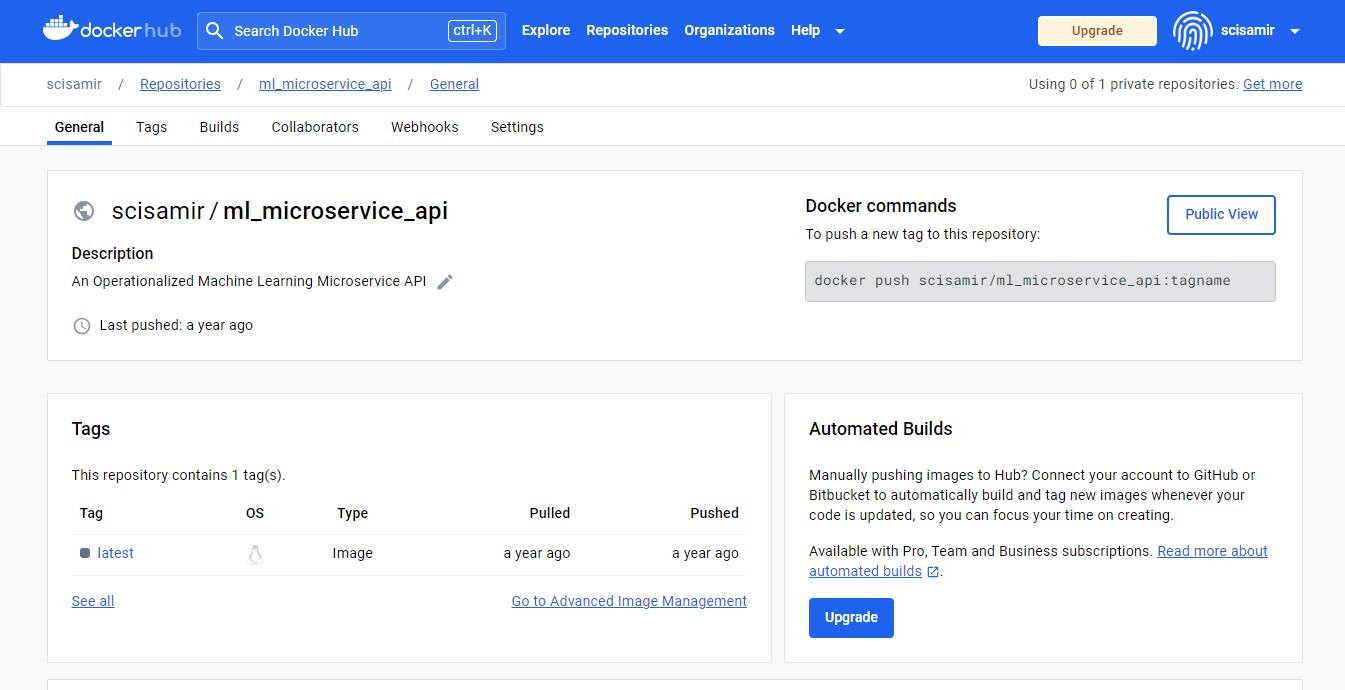
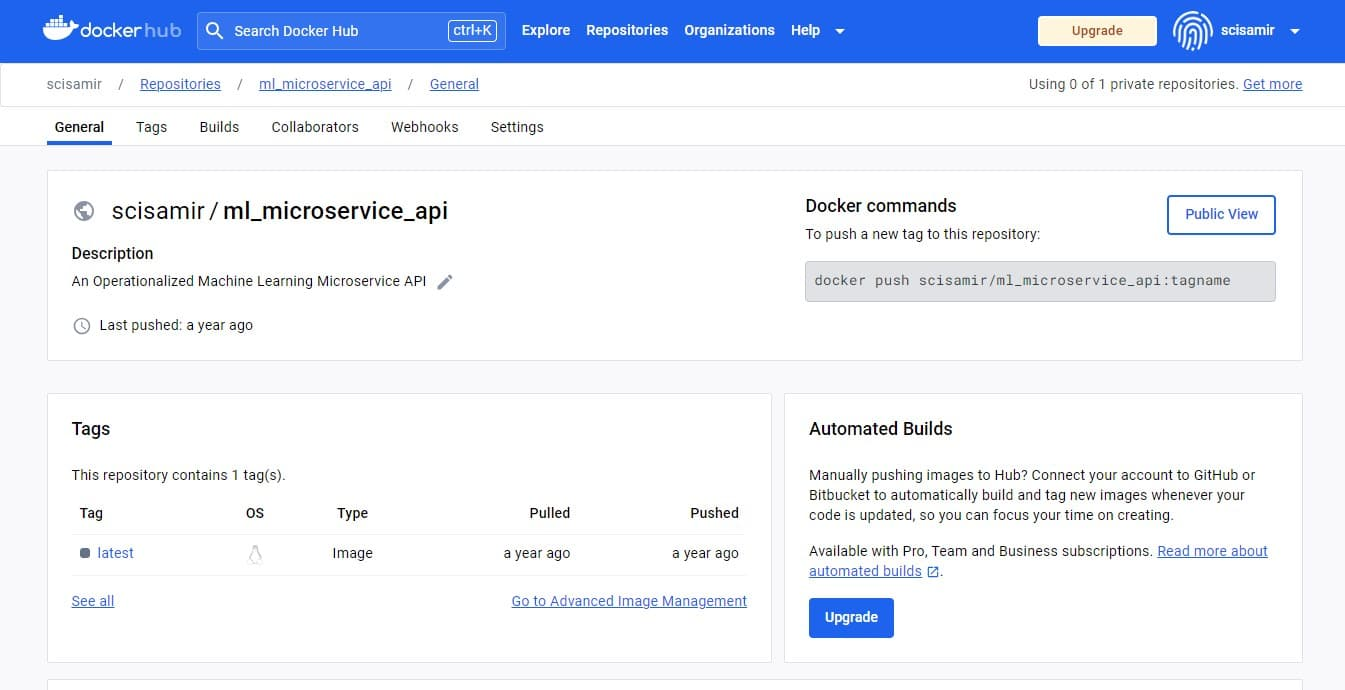
minify images

diff --git a/src/static/projects.ts b/src/static/projects.ts
@@ -48,7 +48,7 @@ const MyProjects = [
         github_link: "https://github.com/scisamir/AirBnB_clone"
     },
     {
-        image_src: "project3.png",
+        image_src: "project3.jpg",
         p_head: "Metabnb",
         description: "Metabnb provides you access to luxury and affordable houses in the metaverse, get a chance to turn your imagination to reality at your comfort zone",
         tools: ["HTML", "CSS", "React", "BootStrap"],
@@ -64,7 +64,7 @@ const MyProjects = [
         github_link: "https://idrissamir.netlify.app/"
     },
     {
-        image_src: "projectd1.png",
+        image_src: "projectd1.jpg",
         p_head: "Static Website on AWS",
         description: "This project used AWS to host a static website. It used AWS bucket, static web hosting, and AWS CloudFront",
         tools: ["AWS", "Bucket", "CloudFront",],
@@ -80,7 +80,7 @@ const MyProjects = [
         github_link: "https://github.com/scisamir/productivae"
     },
     {
-        image_src: "projectd0.jpeg",
+        image_src: "projectd0.jpg",
         p_head: "Cloud Formation",
         description: "This project deploys a web application with AWS CloudFormation",
         tools: ["AWS", "CloudFormation", "Networking"],
